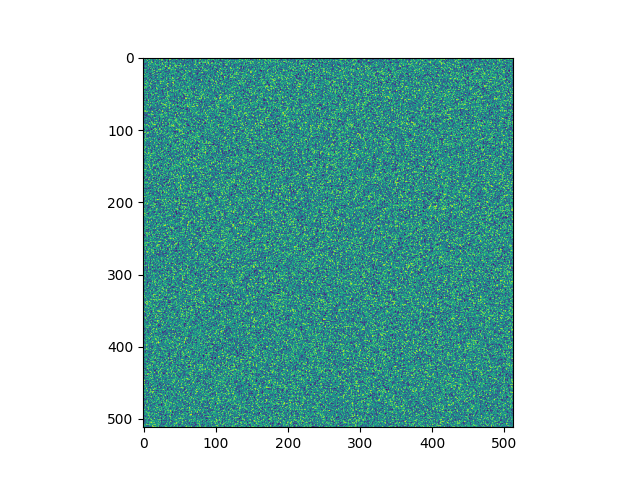
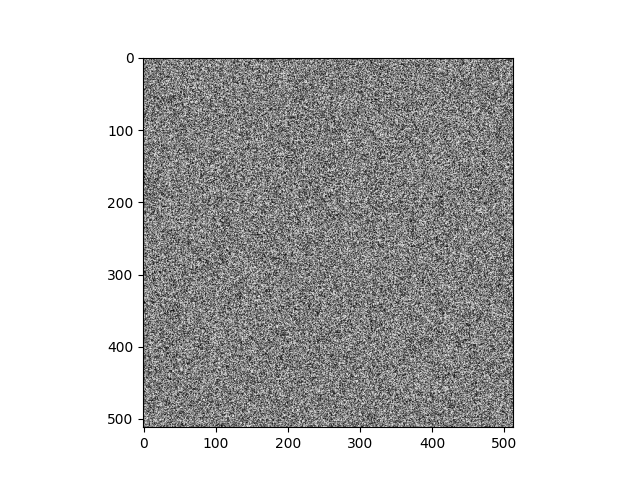
Implement theoretical power spectral density for y, create and write out most of the submission document

diff --git a/lab2/latex/main.tex b/lab2/latex/main.tex
@@ -51,42 +51,73 @@
 \begin{document}
 \maketitle
 
-\section{Section 3 Report - FIR Low Pass Filter}
-\subsection{Derivation of analytical expression for $H(e^{ju}, e^{jv})$}
+\section{Power Spectral Density of an Image}
+\subsection{The gray scale image img04g.tif}
 \begin{figure}[H]
     \centering
-    \includegraphics[width=1\textwidth]{../results/ece637-lab1_1.jpg}
+    \includegraphics[width=1\textwidth]{../images/img04g.png}
     \begin{center}
     \end{center}
 \end{figure}
-\subsection{Plot of $|H(e^{ju}, e^{jv})|$}
+\subsection{The power spectral density plots for block sizes of 64 × 64, 128 × 128, and 256 × 256}
 \begin{figure}[H]
     \centering
-    \includegraphics[width=0.75\textwidth]{../results/section3-python.png}
+    \includegraphics[width=0.75\textwidth]{../images/log-pwr-spec-density-64x64.png}
     \begin{center}
     \end{center}
 \end{figure}
-\subsection{Color Image in img03.tif}
 \begin{figure}[H]
     \centering
-    \includegraphics[width=0.75\textwidth]{../results/img03.png}
+    \includegraphics[width=0.75\textwidth]{../images/log-pwr-spec-density-128x128.png}
     \begin{center}
     \end{center}
 \end{figure}
-\subsection{Filtered Color Image}
 \begin{figure}[H]
     \centering
-    \includegraphics[width=0.75\textwidth]{../results/smoothed.png}
+    \includegraphics[width=0.75\textwidth]{../images/log-pwr-spec-density-256x256.png}
     \begin{center}
     \end{center}
 \end{figure}
-\subsection{C Code}
-The code used to generate this image.
-\lstinputlisting[language=C]{../section3.c}
+\subsection{The improved power spectral density estimate.}
+\begin{figure}[H]
+    \centering
+    \includegraphics[width=0.75\textwidth]{../images/log-pwr-spec-density-better.png}
+    \begin{center}
+    \end{center}
+\end{figure}
+\subsection{Code for BetterSpecAnal(x) function}
+\lstinputlisting[language=Python, firstline=13, lastline=39]{../SpecAnal.py}
 
 
-\section{Appendix - util.c Code}
-Below is the code included in util.c. All other function calls not included in any of the source codes in this document are available in the start code provided.
-\lstinputlisting[language=C]{../util.c}
+
+\section{Power Spectral Density of a 2-D AR Process}
+\subsection{The image 255 * (x + 0.5)}
+\begin{figure}[H]
+    \centering
+    \includegraphics[width=0.75\textwidth]{../images/np-rand-uniform.png}
+    \begin{center}
+    \end{center}
+\end{figure}
+\subsection{The image y + 127}
+\begin{figure}[H]
+    \centering
+    \includegraphics[width=0.75\textwidth]{../images/image-p-127.png}
+    \begin{center}
+    \end{center}
+\end{figure}
+\subsection{A mesh plot of the function log $S_y(e^{j\mu}, e^{j\nu})$}
+\begin{figure}[H]
+    \centering
+    \includegraphics[width=0.75\textwidth]{../images/y-log-pwr-spec-density-theoretical.png}
+    \begin{center}
+    \end{center}
+\end{figure}
+\subsection{A mesh plot of the log of the estimated power spectral density of y using BetterSpecAnal(y)}
+\begin{figure}[H]
+    \centering
+    \includegraphics[width=0.75\textwidth]{../images/y-log-pwr-spec-density-better.png}
+    \begin{center}
+    \end{center}
+\end{figure}
 
 \end{document}

diff --git a/lab2/main.py b/lab2/main.py
@@ -33,16 +33,22 @@ def filter(x):
                 
     return result
 
+def h(u, v):
+    """
+    Compute the transfer function of the IIR filter at the specified spatial frequency domain points.
+    """
+    values = 3 / (1 - 0.99*np.exp(-1j*u) - 0.99*np.exp(-1j*v) + 0.9801*np.exp(-1j*u)*np.exp(-1j*v))
+    return np.absolute(values)**2
 
 x = np.random.uniform(-0.5, 0.5, [512, 512])
 x_scaled = 255 * (x + 0.5)
-plt.imshow(x_scaled.astype(np.uint8))
+plt.imshow(x_scaled.astype(np.uint8), cmap=plt.cm.binary)
 print(x_scaled.dtype)
 plt.savefig("images/np-rand-uniform.png")
 # plt.show()
 plt.clf()
 y = filter(x) + 127
-plt.imshow(y.astype(np.uint8))
+plt.imshow(y.astype(np.uint8), cmap=plt.cm.binary)
 # print(filter(x) + 127)
 plt.savefig("images/image-p-127.png")
 # plt.show()
@@ -58,17 +64,17 @@ surf = ax.plot_surface(X, Y, Z, cmap=plt.cm.coolwarm)
 
 plt.savefig("images/y-log-pwr-spec-density-better.png")
 
-# figure = plt.figure()
-# axis = figure.add_subplot(111, projection='3d')
-# 
-# u = np.linspace(-pi, pi, 1000)
-# v = np.linspace(-pi, pi, 1000)
-# # data = np.random.random((1000, 1000))
-# U, V = np.meshgrid(u, v)
-# # ----------------SECTION 3 PLOTTING-----------------
-# z = np.array(func2(U.ravel(), V.ravel()))
-# Z = z.reshape(U.shape)
-# 
-# axis.plot_surface(U, V, Z)
-# plt.savefig("results/section3-python.png")
-# # plt.show()
+figure = plt.figure()
+axis = figure.add_subplot(111, projection='3d')
+
+u = np.linspace(-pi, pi, 1000)
+v = np.linspace(-pi, pi, 1000)
+U, V = np.meshgrid(u, v)
+# ----------------SECTION 3 PLOTTING-----------------
+z = np.array(h(U.ravel(), V.ravel()))
+Z = z.reshape(U.shape)
+
+axis.plot_surface(U, V, np.log(Z), cmap=plt.cm.coolwarm)
+# axis.set_zlim(-2.5, 10)
+plt.savefig("images/y-log-pwr-spec-density-theoretical.png")
+# plt.show()
